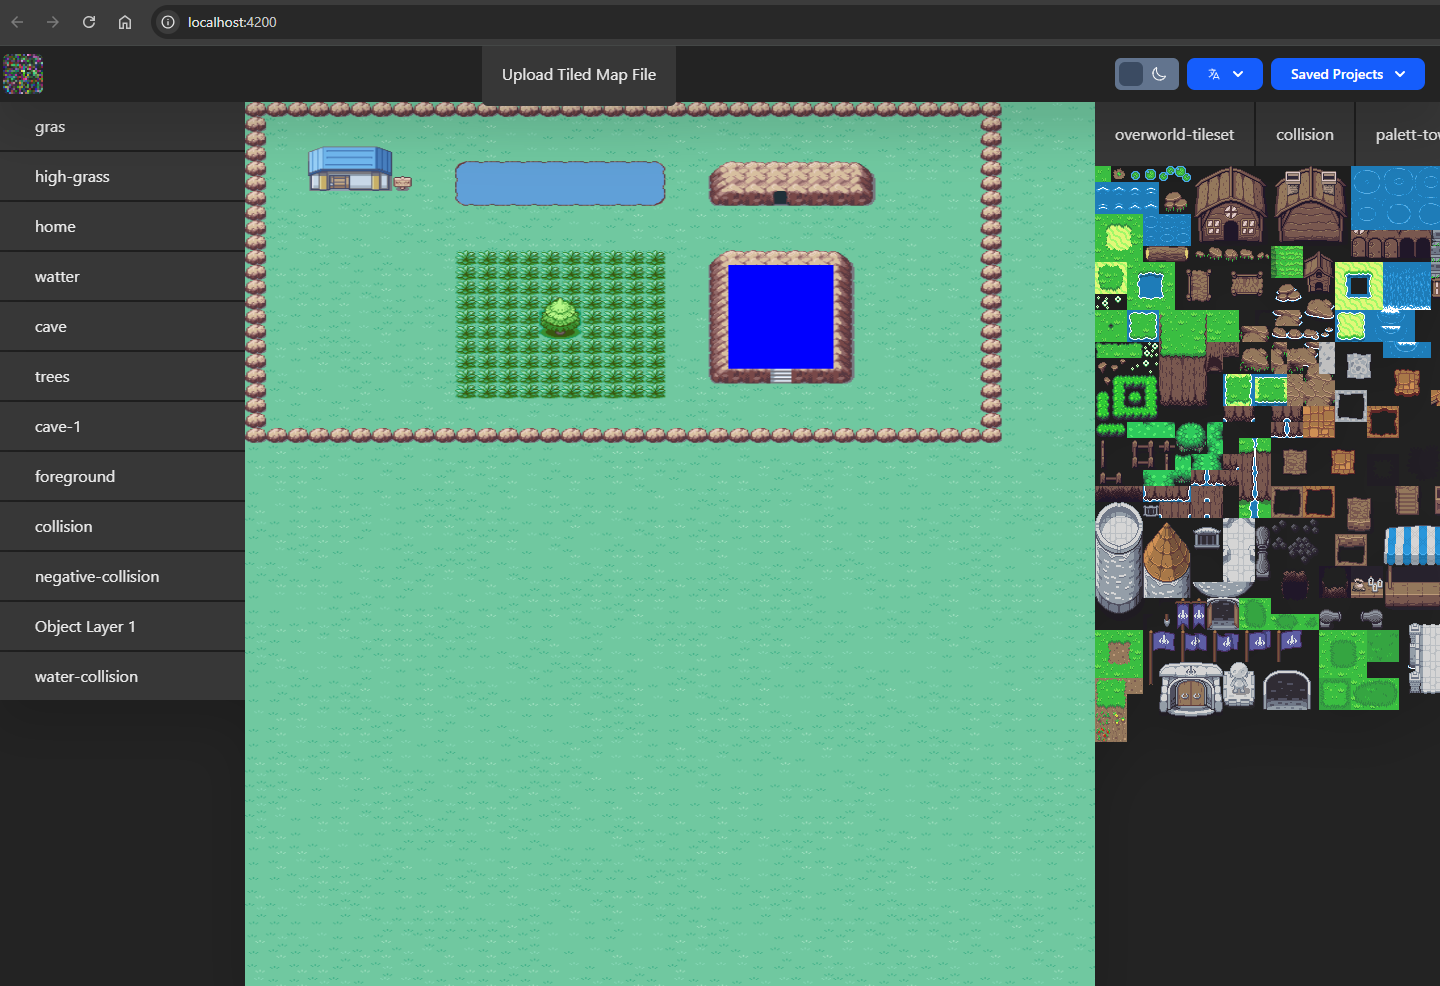
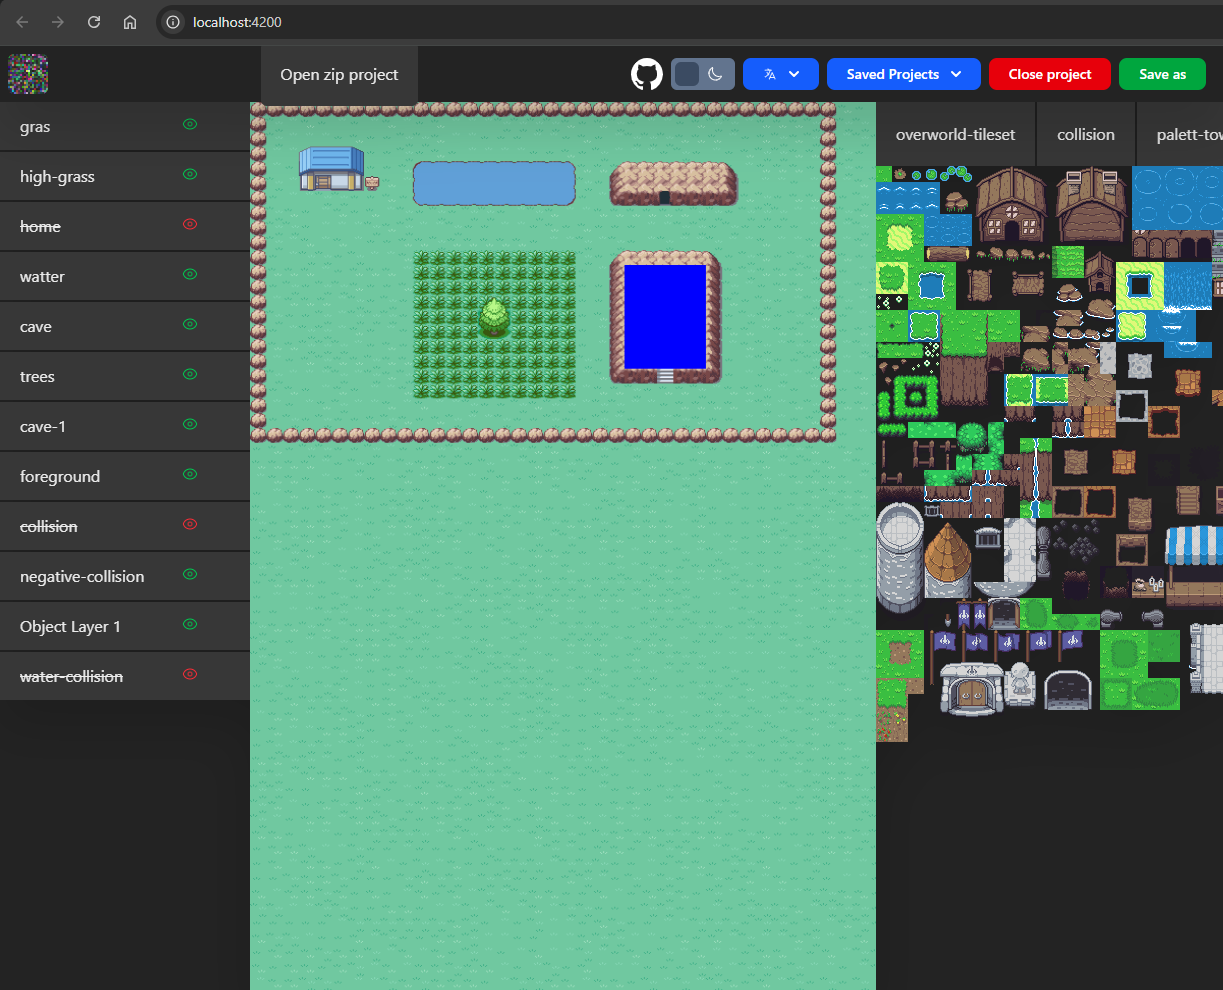
Adds load file handling

diff --git a/src/app/app.ts b/src/app/app.ts
@@ -14,7 +14,6 @@ import {NgIcon, provideIcons} from '@ng-icons/core';
 import {heroEye} from '@ng-icons/heroicons/outline';
 
 
-
 export function placeVectorInGrid(input: Vector, gridSize: number) {
   return new Vector(closestGridPos(input.x, gridSize), closestGridPos(input.y, gridSize));
 }
@@ -60,7 +59,8 @@ function FpsCtrl(fps: number, callback: (data: { time: number; frame: number; })
   template: `
     <tiled-web-ui-main-container
       (projectUpload)="projectUpload($event)"
-      (projectClosed)="projectClosed()"
+      (projectClosed)="closeProject()"
+      (openExisting)="openExisting($event)"
     >
       {{ jsonFilesOnly | json }}
       <div body class="h-full w-full flex ">
@@ -134,10 +134,10 @@ export class App implements OnInit {
   async ngOnInit() {
     await this.projectStore.init();
     const activeProject = await this.projectLoader.getBinary('active');
-    if(activeProject) {
+    if (activeProject) {
       this.cdr.markForCheck();
       this.loadedFromIndexedDb = true;
-      this.zipBlob = new Blob([activeProject], { type: 'application/octet-stream' });
+      this.zipBlob = new Blob([activeProject], {type: 'application/octet-stream'});
       const res2 = await jszip.loadAsync(this.zipBlob, {});
       this.zipFiles = Object.keys(res2.files).map(key => {
         return res2.files[key]
@@ -183,12 +183,29 @@ export class App implements OnInit {
 
   async projectUpload(file: File) {
     this.cdr.markForCheck();
-    await this.projectClosed();
+    await this.closeProject();
     const res = await jszip.loadAsync(file, {});
     this.zipFiles = Object.keys(res.files).map(key => {
       return res.files[key]
     });
     await this.projectStore.updateZipFileBlob(file);
+    this.cdr.detectChanges();
+  }
+
+  async openExisting(projectName: string) {
+    this.cdr.markForCheck();
+    await this.projectStore.openProject(projectName);
+
+    if (!this.projectStore.openZipFileBlob()) {
+      this.cdr.detectChanges();
+
+      return;
+    }
+    this.closeProject();
+    const res = await jszip.loadAsync(this.projectStore.openZipFileBlob()!, {});
+    this.zipFiles = Object.keys(res.files).map(key => {
+      return res.files[key]
+    });
     this.cdr.detectChanges();
   }
 
@@ -207,7 +224,6 @@ export class App implements OnInit {
 
   currentTilesetCanvas?: HTMLCanvasElement
   currentTilesetCtx?: CanvasRenderingContext2D;
-
 
 
   getMousePosTranformed(e: MouseEvent) {
@@ -234,7 +250,7 @@ export class App implements OnInit {
 
         setTimeout(() => {
           data!.canvas.onmousemove = this.getMousePosTranformed.bind(this);
-        },100);
+        }, 100);
         data?.draw();
       }, 100)
     }
@@ -258,7 +274,7 @@ export class App implements OnInit {
       const img = await TiledMapParser.createMapCanvas(res2, 0, 0, 1);
       const container = document.getElementById('container')! as HTMLDivElement;
       const oldCanvas = container.querySelector('canvas');
-      if(oldCanvas)
+      if (oldCanvas)
         container.removeChild(oldCanvas);
       container!.appendChild(img.canvas);
       img.canvas.style.width = container.clientWidth + 'px';
@@ -293,16 +309,16 @@ export class App implements OnInit {
     return this.zipFiles.filter(f => f.name.endsWith('.json'));
   }
 
-  projectClosed() {
+  closeProject() {
     this.cdr.markForCheck();
     const canvasContainer = document.getElementById('tilesetCanvas')! as HTMLDivElement;
     const canvas = canvasContainer?.querySelector('canvas');
-    if(canvas)
+    if (canvas)
       canvasContainer.removeChild(canvas);
 
     const container = document.getElementById('container')! as HTMLDivElement;
     const oldCanvas = container?.querySelector('canvas');
-    if(oldCanvas)
+    if (oldCanvas)
       container.removeChild(oldCanvas);
 
     this.zipBlob = undefined;

diff --git a/projects/ui/src/lib/main-container/main-container.ts b/projects/ui/src/lib/main-container/main-container.ts
@@ -142,6 +142,7 @@ export class MainContainer implements OnInit {
   projectUpload = output<File>();
   projectClosed = output<void>();
   saveProjectAs = output<void>();
+  openExisting = output<string>();
   projectLoader = inject(ProjectLoader);
 
   dropDownOptions: DropdownOption[] = []
@@ -165,8 +166,8 @@ export class MainContainer implements OnInit {
         display() {
           return true;
         },
-        click() {
-
+        click: () => {
+          this.openExisting.emit(binary.key);
         },
         value: binary.key,
         additionalItemClass() {
@@ -192,7 +193,8 @@ export class MainContainer implements OnInit {
       title: 'tiledWeb.saveDialog.title',
       description: 'tiledWeb.saveDialog.description',
       action: async () => {
-        return this.projectStore.safeOpenProjectAs(this.newProjectName);
+        await this.projectStore.safeOpenProjectAs(this.newProjectName);
+        await this.refreshProjectList();
       },
       template: temp,
       blocksUiInput: true

diff --git a/projects/stores/src/lib/project-store.ts b/projects/stores/src/lib/project-store.ts
@@ -28,9 +28,9 @@ export const ProjectStore = signalStore(
   withMethods((store) => {
       const projectLoader = inject(ProjectLoader);
       return ({
-        async init() {
 
-          const activeProject = await projectLoader.getBinary('active');
+        async openProject(name: string) {
+          const activeProject = await projectLoader.getBinary(name);
           let activeProjectBlob: Blob | undefined;
           if (activeProject)
             activeProjectBlob = new Blob([activeProject], {type: 'application/octet-stream'});
@@ -48,6 +48,10 @@ export const ProjectStore = signalStore(
               openZipFileUint8: arr
             }))
           }
+        },
+
+        async init() {
+
         },
         async safeProjectAs(blob: Blob, projectName: string) {
           const bytes = await blob.arrayBuffer();
